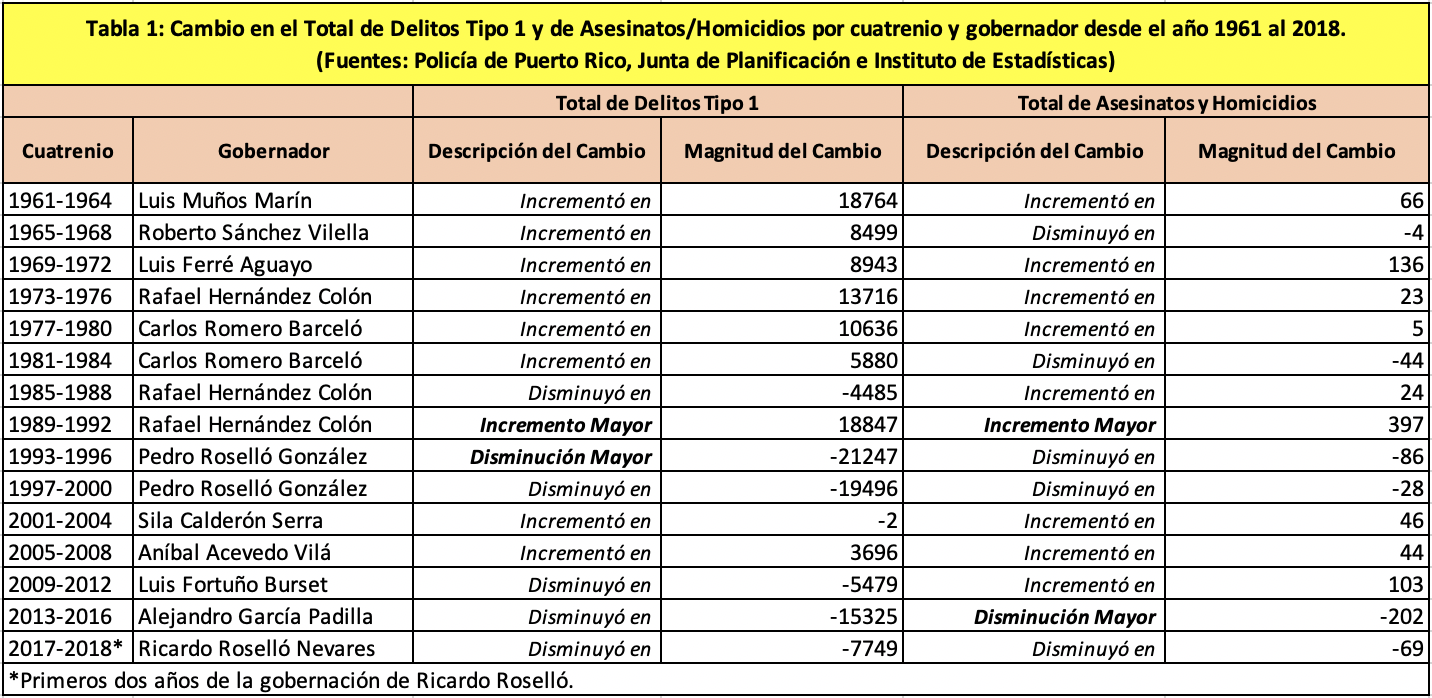
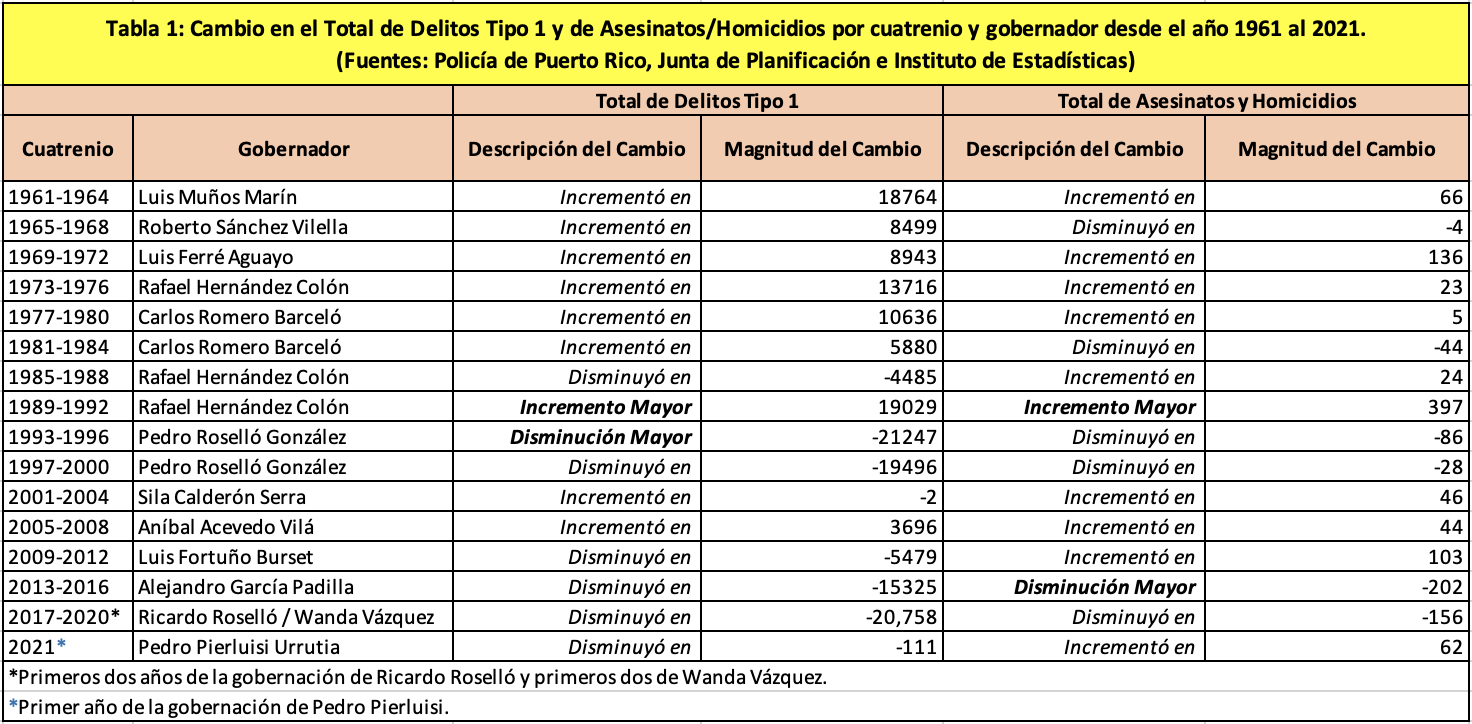
Actualización de datos de criminalidad (2021)

diff --git a/resources/js/dt1_chartscript.js b/resources/js/dt1_chartscript.js
@@ -155,7 +155,7 @@
     
     /* ********************************************************************************************************************************************** */
     
-    // Tasa de Delitos Tipo 1 por cada 100,000 Habitantes (1960-2020)
+    // Tasa de Delitos Tipo 1 por cada 100,000 Habitantes (1960-2021)
     
     /* ********************************************************************************************************************************************** */
     
@@ -168,7 +168,7 @@
             },
     
             title: {
-                text: 'Tasa de delitos tipo 1 en Puerto Rico de 1960 a 2020',
+                text: 'Tasa de delitos tipo 1 en Puerto Rico de 1960 a 2021',
             },
     
             xAxis: {
@@ -177,7 +177,7 @@
                     '1978', '1979', '1980', '1981', '1982', '1983', '1984', '1985', '1986', '1987', '1988',
                     '1989', '1990', '1991', '1992', '1993', '1994', '1995', '1996', '1997', '1998', '1999',
                     '2000', '2001', '2002', '2003', '2004', '2005', '2006', '2007', '2008', '2009', '2010',
-                    '2011', '2012', '2013', '2014', '2015', '2016', '2017', '2019', '2020'
+                    '2011', '2012', '2013', '2014', '2015', '2016', '2017', '2019', '2020', '2021'
                 ],
             },
     
@@ -217,7 +217,7 @@
                     2575, 2880, 3031, 2910, 2709, 2590, 2574, 2884, 3012, 2977, 2807, 3087, 3472,
                     3531, 3222, 3251, 3169, 3526, 3372, 3605, 3362, 3205, 2902, 2708, 2553, 2322,
                     2150, 1993, 1836, 2386, 2138, 1832, 1702, 1633, 1662, 1828, 1797, 1673, 1693,
-                    1699, 1619, 1528, 1341, 1258, 1172, 976, 892, 554
+                    1699, 1619, 1528, 1341, 1258, 1172, 976, 892, 554, 554
                 ],
                 color: '#2a8e40',
                 animation: {
@@ -546,7 +546,7 @@
     
     /* ********************************************************************************************************************************************** */
     
-    // Tasa Descendente de Delitos Tipo 1 por cada 100,000 habitantes (1992-2020)
+    // Tasa Descendente de Delitos Tipo 1 por cada 100,000 habitantes (1992-2021)
     
     /* ********************************************************************************************************************************************** */
     
@@ -560,7 +560,7 @@
             },
     
             title: {
-                text: 'Gráfica 2: Tendencia tasa de delitos tipo 1 de 1992 a 2020',
+                text: 'Gráfica 2: Tendencia tasa de delitos tipo 1 de 1992 a 2021',
             },
     
             subtitle: {
@@ -766,6 +766,11 @@
                     {
                         'x': Date.UTC(2021, 0),
                         // Enero, 1, 2021
+                        'y': 555
+                    },
+                    {
+                        'x': Date.UTC(2022, 0),
+                        // Enero, 1, 2022
                         'y': null
                     },
                 ],
@@ -783,13 +788,13 @@
                             'y': 3605
                         },
                         {
-                            'x': Date.UTC(2020, 0),
-                            // Enero, 1, 2020
-                            'y': 554
-                        },
-                        {
                             'x': Date.UTC(2021, 0),
                             // Enero, 1, 2021
+                            'y': 555
+                        },
+                        {
+                            'x': Date.UTC(2022, 0),
+                            // Enero, 1, 2022
                             'y': null
                         },
                     ],
@@ -842,7 +847,7 @@
     
     /* ********************************************************************************************************************************************** */
     
-    //Total de Delitos Tipo 1 en Puerto Rico (1960-2020)
+    //Total de Delitos Tipo 1 en Puerto Rico (1960-2021)
     
     /* ********************************************************************************************************************************************** */
     
@@ -855,16 +860,16 @@
             },
     
             title: {
-                text: 'Gráfica 3: Total de delitos tipo 1 en Puerto Rico de 1960 a 2020',
+                text: 'Gráfica 3: Total de delitos tipo 1 en Puerto Rico de 1960 a 2021',
             },
     
             xAxis: {
-                categories: ['1960', '1961', '1962', '1963', '1964', '1965', '1966', '1967', '1968', '1969', '1970',
-                    '1971', '1972', '1973', '1974', '1975', '1976', '1977',
+                categories: ['1960', '1961', '1962', '1963', '1964', '1965', '1966', '1967', 
+                    '1968', '1969', '1970', '1971', '1972', '1973', '1974', '1975', '1976', '1977',
                     '1978', '1979', '1980', '1981', '1982', '1983', '1984', '1985', '1986', '1987', '1988',
                     '1989', '1990', '1991', '1992', '1993', '1994', '1995', '1996', '1997', '1998', '1999',
                     '2000', '2001', '2002', '2003', '2004', '2005', '2006', '2007', '2008', '2009', '2010',
-                    '2011', '2012', '2013', '2014', '2015', '2016', '2017', '2018', '2019', '2020'
+                    '2011', '2012', '2013', '2014', '2015', '2016', '2017', '2018', '2019', '2020', '2021'
                 ],
             },
     
@@ -899,7 +904,7 @@
                 data: [33272, 37982, 47514, 54159, 56746, 57117, 60013, 60735, 65616, 61480, 66470, 70438, 70423, 72363, 82293, 88095, 86079,
                     81544, 79343, 80181, 92180, 96645, 96738, 92252, 102525, 116432, 119522, 110018, 111947, 110027, 124371, 119731, 128874,
                     121035, 116263, 106088, 99788, 94875, 87020, 81880, 75379, 70120, 91223, 81788, 70118, 65050, 62135, 62881, 68746, 67211,
-                    62269, 62279, 61732, 58180, 54006, 46587, 42855, 38964, 31233, 28517, 18206
+                    62269, 62279, 61732, 58180, 54006, 46587, 42855, 38964, 31233, 28517, 18206, 18095
                 ],
                 color: '#2a8e40',
                 animation: {
@@ -929,7 +934,7 @@
     
     /* ********************************************************************************************************************************************** */
     
-    //Tasa de Asesinatos y Homicidios en Puerto Rico (1960-2020)
+    //Tasa de Asesinatos y Homicidios en Puerto Rico (1960-2021)
     
     /* ********************************************************************************************************************************************** */
     
@@ -942,7 +947,7 @@
             },
     
             title: {
-                text: 'Gráfica 4: Tasa anual de asesinatos y homicidios de 1960 a 2020',
+                text: 'Gráfica 4: Tasa anual de asesinatos y homicidios de 1960 a 2021',
             },
     
             xAxis: {
@@ -1316,13 +1321,13 @@
                             }
                         },
                         {
-                            'x': Date.UTC(2020, 0),
-                            // Enero, 1, 2020
-                            'y': 16.1
-                        },
-                        {
                             'x': Date.UTC(2021, 0),
                             // Enero, 1, 2021
+                            'y': 18.9
+                        },
+                        {
+                            'x': Date.UTC(2022, 0),
+                            // Enero, 1, 2022
                             'y': null
                         },
                     ],
@@ -1391,7 +1396,7 @@
             },
     
             title: {
-                text: 'Gráfica 4: Total anual de asesinatos y homicidios de 1960 a 2020',
+                text: 'Gráfica 4: Total anual de asesinatos y homicidios de 1960 a 2021',
             },
     
             xAxis: {
@@ -1745,6 +1750,11 @@
                     {
                         'x': Date.UTC(2021, 0),
                         // Jan, 1, 2021
+                        'y': 616
+                    },
+                    {
+                        'x': Date.UTC(2022, 0),
+                        // Jan, 1, 2022
                         'y': null
                     },
                 ],
@@ -1760,9 +1770,9 @@
                     }
                 },
                 {
-                    'x': Date.UTC(2020, 0),
+                    'x': Date.UTC(2021, 0),
                     // Enero, 1, 2020
-                    'y': 529
+                    'y': 616
                 },
             ],
             color: '#FEDA35',
@@ -1830,7 +1840,7 @@
             },
     
             title: {
-                text: 'Gráfica 5: Cambio en el total de delitos tipo 1 por gobernante y cuatrenio (1961-2020)',
+                text: 'Gráfica 5: Cambio en el total de delitos tipo 1 por gobernante y cuatrenio (1961-2021)',
     
             },
             subtitle: {
@@ -1840,12 +1850,11 @@
             xAxis: [{
     
                 categories: ['L. Muñoz Marín', 'R. Sánchez Vilella', 'L. Ferré Aguayo',
-                    'R. Hernández Colón',
-                    'C. Romero Barceló', 'C. Romero Barceló', 'R. Hernández Colón',
-                    'R. Hernández Colón',
-                    'P. Rosselló González', 'P. Rosselló González', 'S. Calderón Serra',
-                    'A. Acevedo Vilá',
-                    'L. Fortuño Burset', 'A. García Padilla', 'R. Rosselló / W. Vázquez'
+                    'R. Hernández Colón', 'C. Romero Barceló', 'C. Romero Barceló', 
+                    'R. Hernández Colón', 'R. Hernández Colón', 'P. Rosselló González', 
+                    'P. Rosselló González', 'S. Calderón Serra', 'A. Acevedo Vilá',
+                    'L. Fortuño Burset', 'A. García Padilla', 'R. Rosselló / W. Vázquez',
+                    'P. Pierluisi Urrutia'
                 ],
                 crosshair: true
             }],
@@ -1958,6 +1967,11 @@
                     name: '2017-2020 *',
                     color: '#2b378d',
                     y: -18206,
+    
+                }, {
+                    name: '2021 *',
+                    color: '#2b378d',
+                    y: -111,
     
                 }]
             }, {
